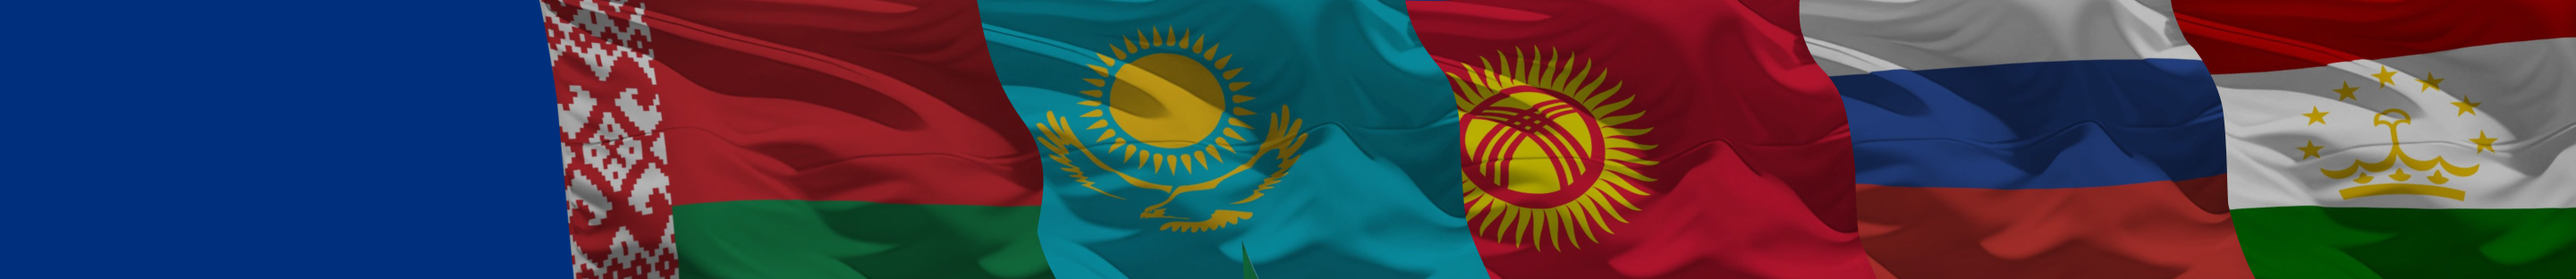
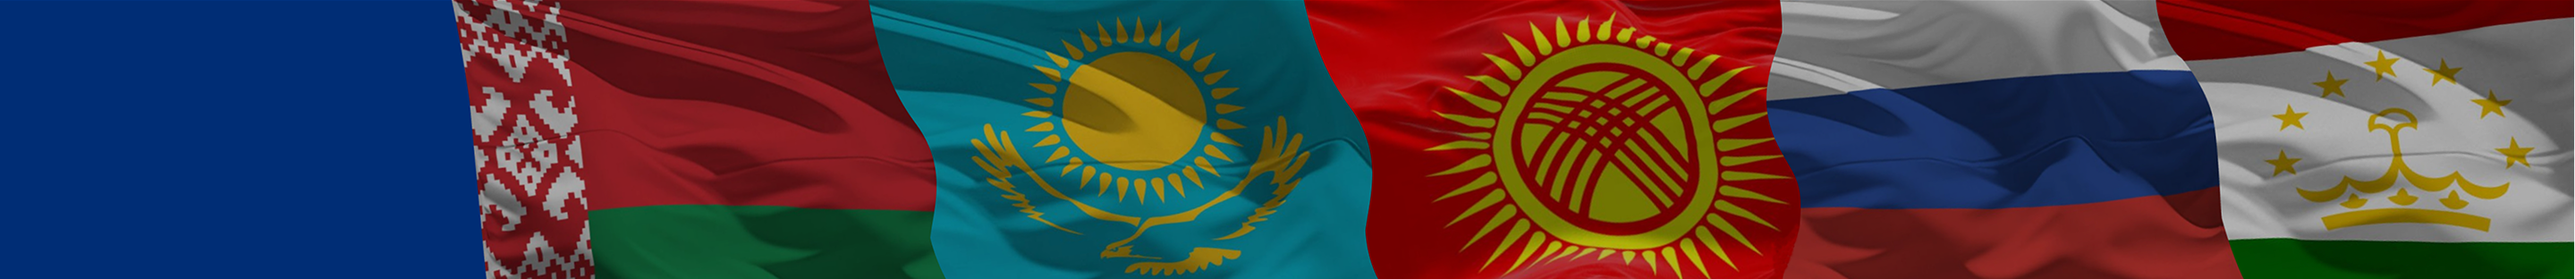
fix index page styles

diff --git a/src/components/_footer.html b/src/components/_footer.html
@@ -1,16 +1,17 @@
 <footer class="container-fluid footer">
   <div class="container">
-    <h3 class="footer__title">Экономический Суд Содружества Независимых Государств</h3>
+    <div class="d-flex align-items-center gap-3">
+      <div class="footer__logo">
+        <img class="w-100" src="./img/logo.png" alt="Лого">
+      </div>
+      <h3 class="footer__title">Экономический Суд Содружества Независимых Государств</h3>
+    </div>
     <div class="footer__container">
       <div class="footer__column">
         <ul class="d-flex flex-column gap-2">
           <li><a class="link-white" href="#">Компетенция</a></li>
           <li><a class="link-white" href="#">Правовая основа деятельности</a></li>
           <li><a class="link-white" href="#">Судебные акты</a></li>
-        </ul>
-      </div>
-      <div class="footer__column">
-        <ul class="d-flex flex-column gap-2">
           <li><a class="link-white" href="#">Реестр судей</a></li>
           <li><a class="link-white" href="#">Члены Пленума</a></li>
           <li><a class="link-white" href="#">Отчеты о деятельности</a></li>
@@ -26,22 +27,24 @@
           <span>email: <a class="link-white" href="mailto:info@eсsng.org">info@eсsng.org</a></span>
         </address>
       </div>
-    </div>
-    <div class="d-flex flex-column gap-3 mt-2">
-      <a class="link-white" href="#">Карта сайта</a>
-      <div class="d-flex justify-content-between align-items-center flex-wrap gap-3">
-        <p class="mb-0" id="year"></p>
-        <p class="mb-0">
-          Сайт разработан:
-          <a class="link-white" href="https://info-center.by">
-            РУП «Информационно-издательский центр по налогам и сборам»
-          </a>
-        </p>
+      <div class="footer__column">
+        <a class="link-white fw-medium d-block mb-4" href="#">Карта сайта</a>
+        <div class="d-flex flex-column flex-wrap">
+          <p class="mb-2" id="year"></p>
+          <p class="mb-2">
+            Сайт разработан:
+          </p>
+          <p class="mb-2">
+            <a class="link-white" href="https://info-center.by">
+              РУП «Информационно-издательский центр по налогам и сборам»
+            </a>
+          </p>
+        </div>
       </div>
     </div>
   </div>
 </footer>
 <script>
-  const year = new Date().getFullYear(); // Получаем текущий год
-  document.getElementById("year").textContent = `${year}, Все права защищены`; 
+  const year = new Date().getFullYear();
+  document.getElementById("year").textContent = `©${year}, Все права защищены`; 
 </script>

diff --git a/src/components/_header.html b/src/components/_header.html
@@ -1,8 +1,8 @@
 <header class="container-fluid header">
   <div class="container">
-    <div class="d-flex align-items-center gap-3 pb-4">
+    <div class="d-flex align-items-center pb-4 position-relative">
       <a href="/"><img class="header__logo" src="./img/logo.png" alt="лого" /></a>
-      <h1 class="fs-24 color-white d-none d-lg-block fw-medium">Экономический Суд Содружества Независисмых
+      <h1 class="color-white d-none d-lg-block fw-medium header__title">Экономический Суд Содружества Независисмых
         Госудраств
       </h1>
     </div>
@@ -141,7 +141,7 @@
       </ul>
       <div class="header__search pb-3">
         <input class="input" type="text" placeholder="Поиск" />
-        <button type="button"><i class="bi bi-search"></i></button>
+        <button type="button"><i class="bi bi-search color-gray-dark"></i></button>
       </div>
     </nav>
   </div>

diff --git a/src/scss/_header.scss b/src/scss/_header.scss
@@ -4,9 +4,13 @@
   background-size: 100% 100%;
   background-color: rgba(0, 0, 0, 0.2);
   background-blend-mode: darken;
-  padding-top: 16px;
+  padding-top: 80px;
   padding-inline: 0;
   display: block;
+
+  @media (max-width: 1790px) {
+    padding-top: 16px;
+  }
 
   &__search {
     position: relative;
@@ -22,9 +26,28 @@
     }
   }
 
+  &__title {
+    font-size: 32px;
+
+    @media (max-width: 1790px) {
+      font-size: 24px;
+    }
+  }
+
   &__logo {
-    width: 120px;
-    height: 120px;
+    position: absolute;
+    top: -50px;
+    left: -170px;
+    width: 150px;
+    height: 150px;
+    margin-right: 0;
+
+    @media (max-width: 1790px) {
+      position: static;
+      width: 120px;
+      height: 120px;
+      margin-right: 16px;
+    }
   }
 }
 

diff --git a/src/scss/_banner.scss b/src/scss/_banner.scss
@@ -1,10 +1,20 @@
 .banner {
   margin-top: 50px;
-  height: 220px;
+  height: 250px;
+  display: block;
+  background-image: url("../img/banner.png");
+  background-repeat: no-repeat;
+  width: 100%;
+  background-size: contain;
+  background-position: center;
 
-  & img {
-    height: 100%;
-    width: 100%;
+  @media (max-width: 768px) {
+    height: auto;
+    aspect-ratio: 4 / 3;
+    background-image: url("../img/mobile-banner.png");
+    background-size: 100% auto;
+    background-repeat: no-repeat;
+    background-position: center;
   }
 }
 

diff --git a/src/components/_news-tabs.html b/src/components/_news-tabs.html
@@ -238,8 +238,8 @@
     </div>
     <div class="col-12 col-lg-4">
       <div class="row row-cols-1 row-cols-sm-1 row-cols-lg-1">
-        <div class="col">
-          <h2 class="h2-title mb-4 mt-5">полезные ссылки</h2>
+        <div class="col mt-3 mt-lg-0">
+          <h2 class="h2-title mb-4 mt-5 mt-lg-0">полезные ссылки</h2>
 
           <ul class="useful-links">
             <li>

diff --git a/src/components/_court-news.html b/src/components/_court-news.html
@@ -187,7 +187,7 @@
       </div>
     </div>
     <div class="col-12 col-lg-3">
-      <div class="row row-cols-1 row-cols-sm-2 row-cols-lg-1 mt-3 g-4">
+      <div class="row row-cols-1 row-cols-sm-2 row-cols-lg-1 mt-5 mt-lg-3 g-4">
         <div class="col">
           <a class="news-activity" href="#">
             <div class="news-activity__icon">

diff --git a/src/scss/_variables.scss b/src/scss/_variables.scss
@@ -32,7 +32,7 @@ $colorsMap: (
 
 $borderMap: ("10", "15", "20", "25", "30", "100");
 
-$fontSizeMap: (10, 12, 14, 16, 18, 20, 22, 24);
+$fontSizeMap: (10, 12, 14, 16, 18, 20, 22, 24, 32);
 
 $transitionMap: (
   "2": ".2",

diff --git a/src/scss/_footer.scss b/src/scss/_footer.scss
@@ -16,4 +16,10 @@
     font-size: clamp(1.25rem, 1.159rem + 0.45vw, 1.5rem);
     font-weight: 500;
   }
+
+  &__logo {
+    width: 74px;
+    height: 74px;
+    flex-shrink: 0;
+  }
 }

diff --git a/src/components/_banner.html b/src/components/_banner.html
@@ -1,3 +1,3 @@
-<section class="container banner">
-  <img src="./img/banner.png" alt="баннер" />
+<section class="container">
+  <div class="banner"></div>
 </section>

diff --git a/src/scss/_partners.scss b/src/scss/_partners.scss
@@ -89,7 +89,7 @@
 }
 
 .partners {
-  padding-bottom: 100px;
+  padding-bottom: 80px;
 }
 
 .slider-partner {
